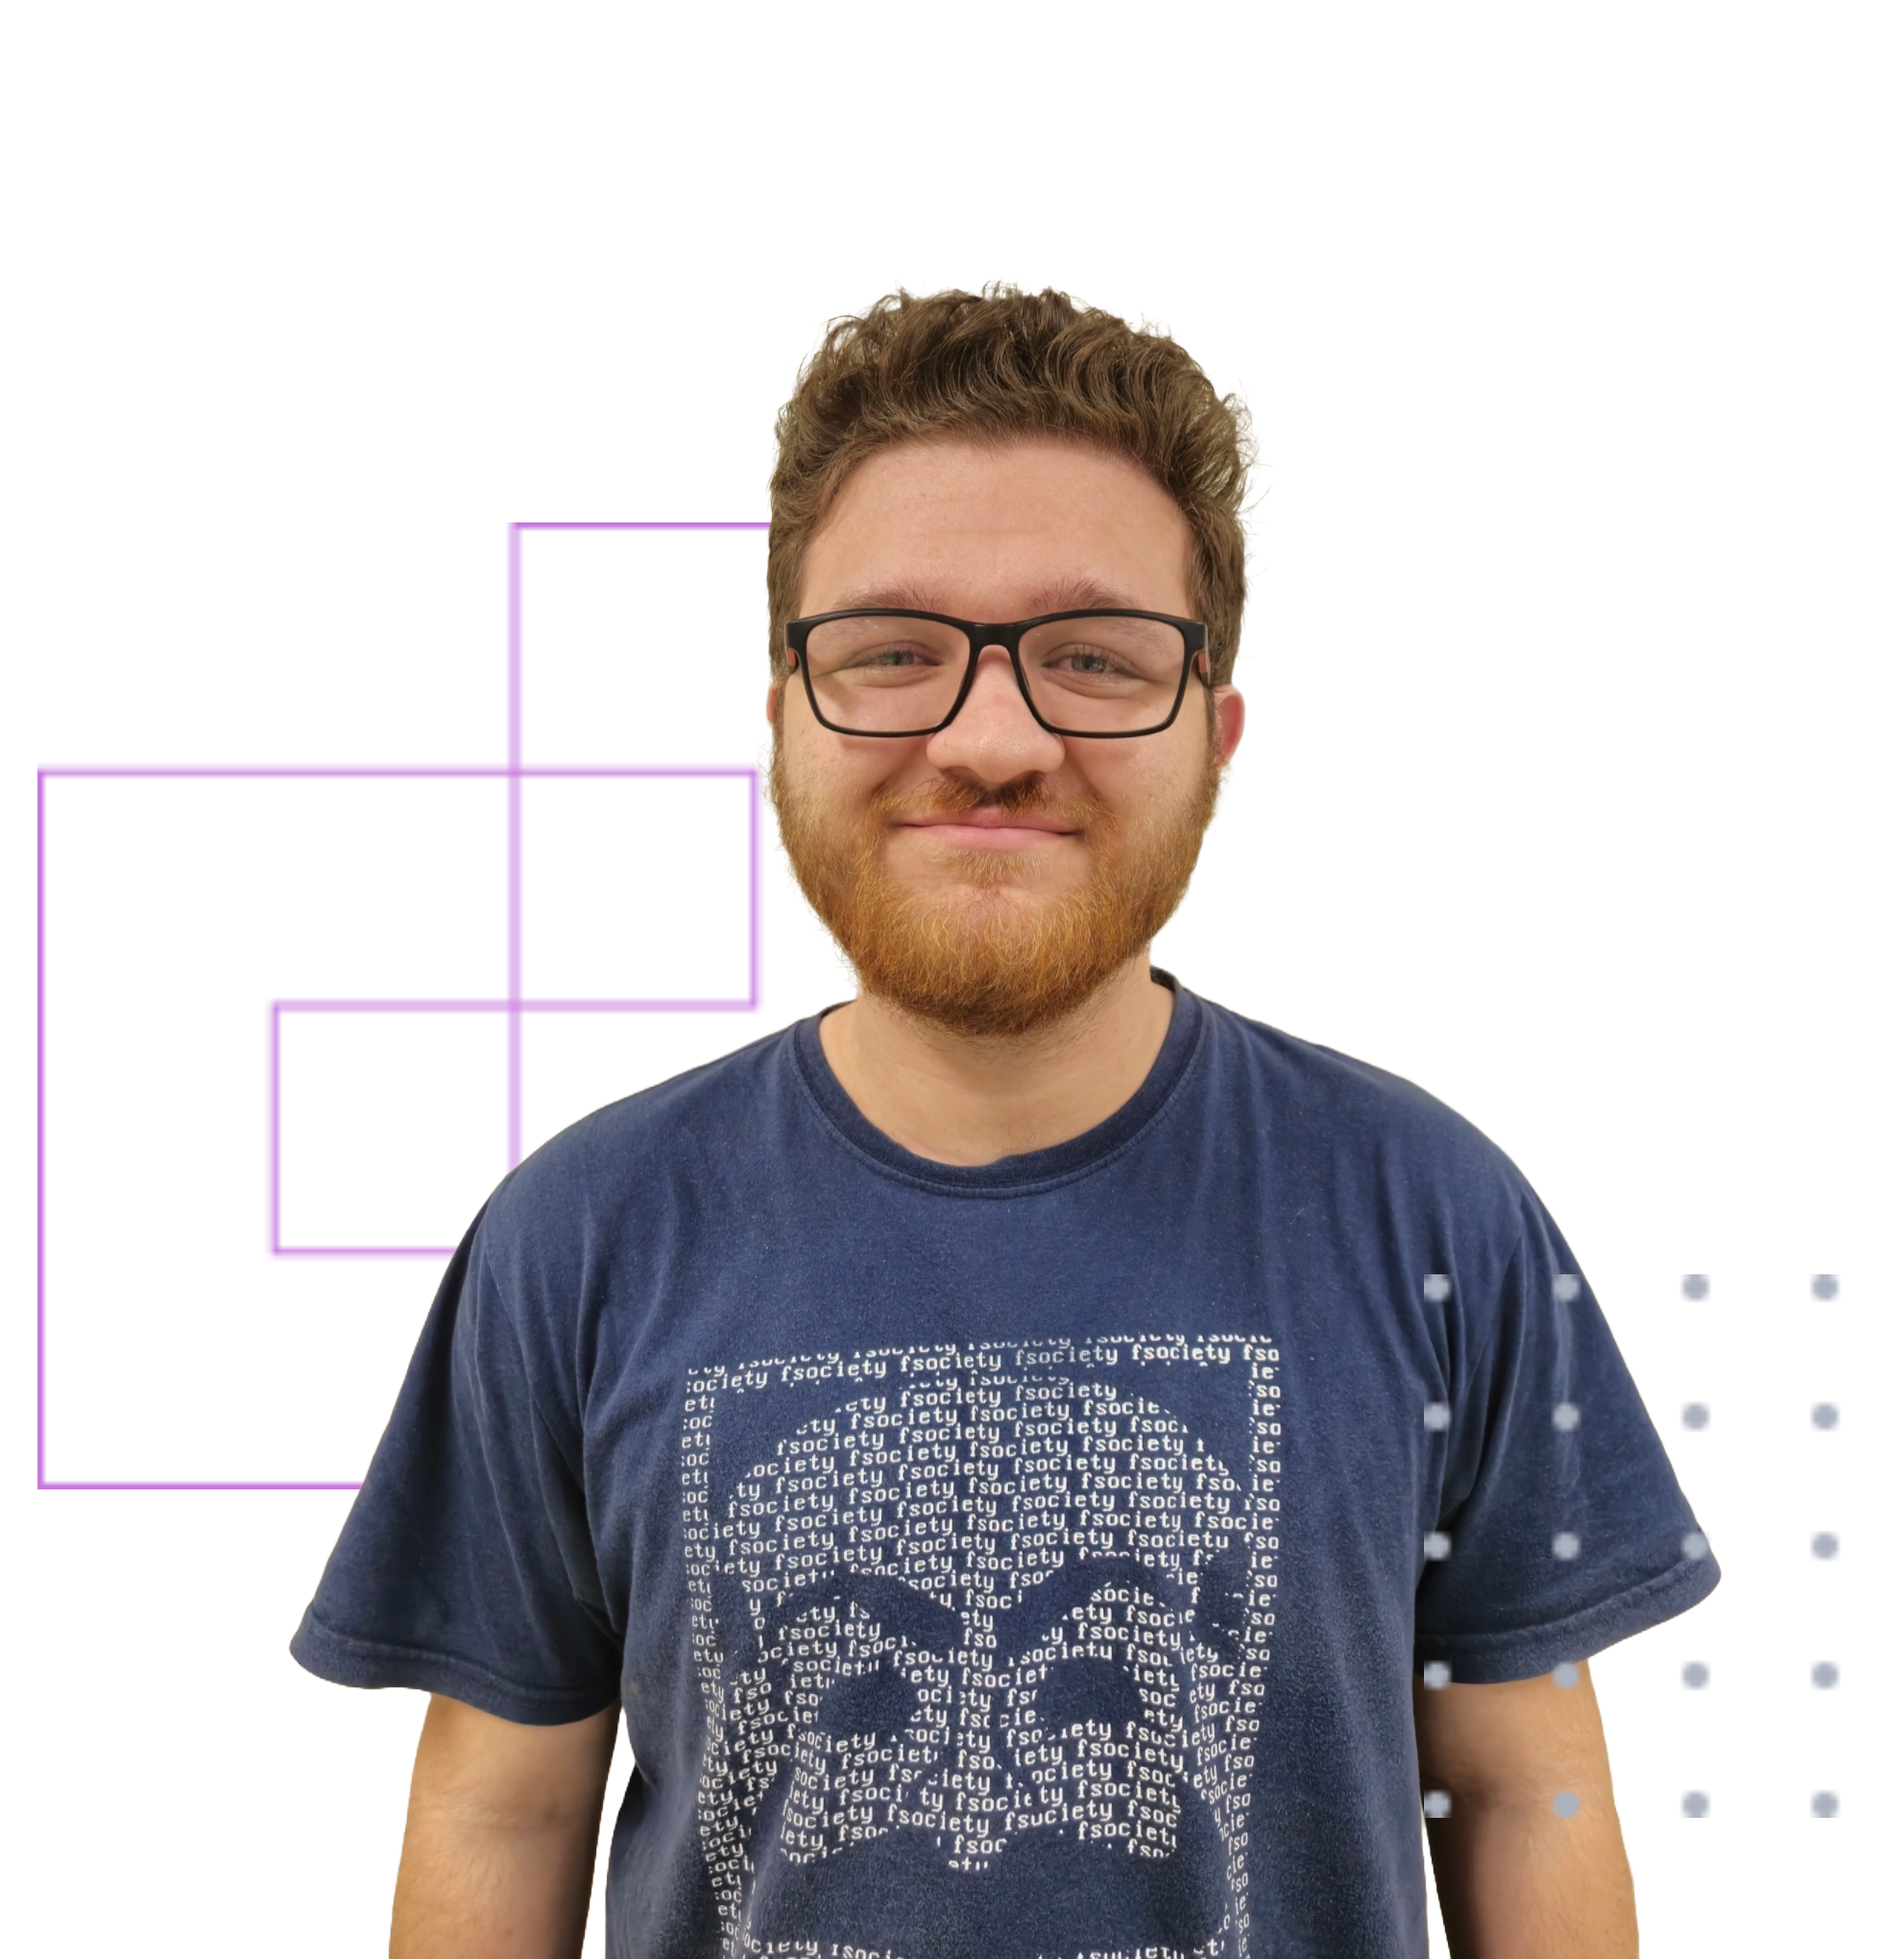
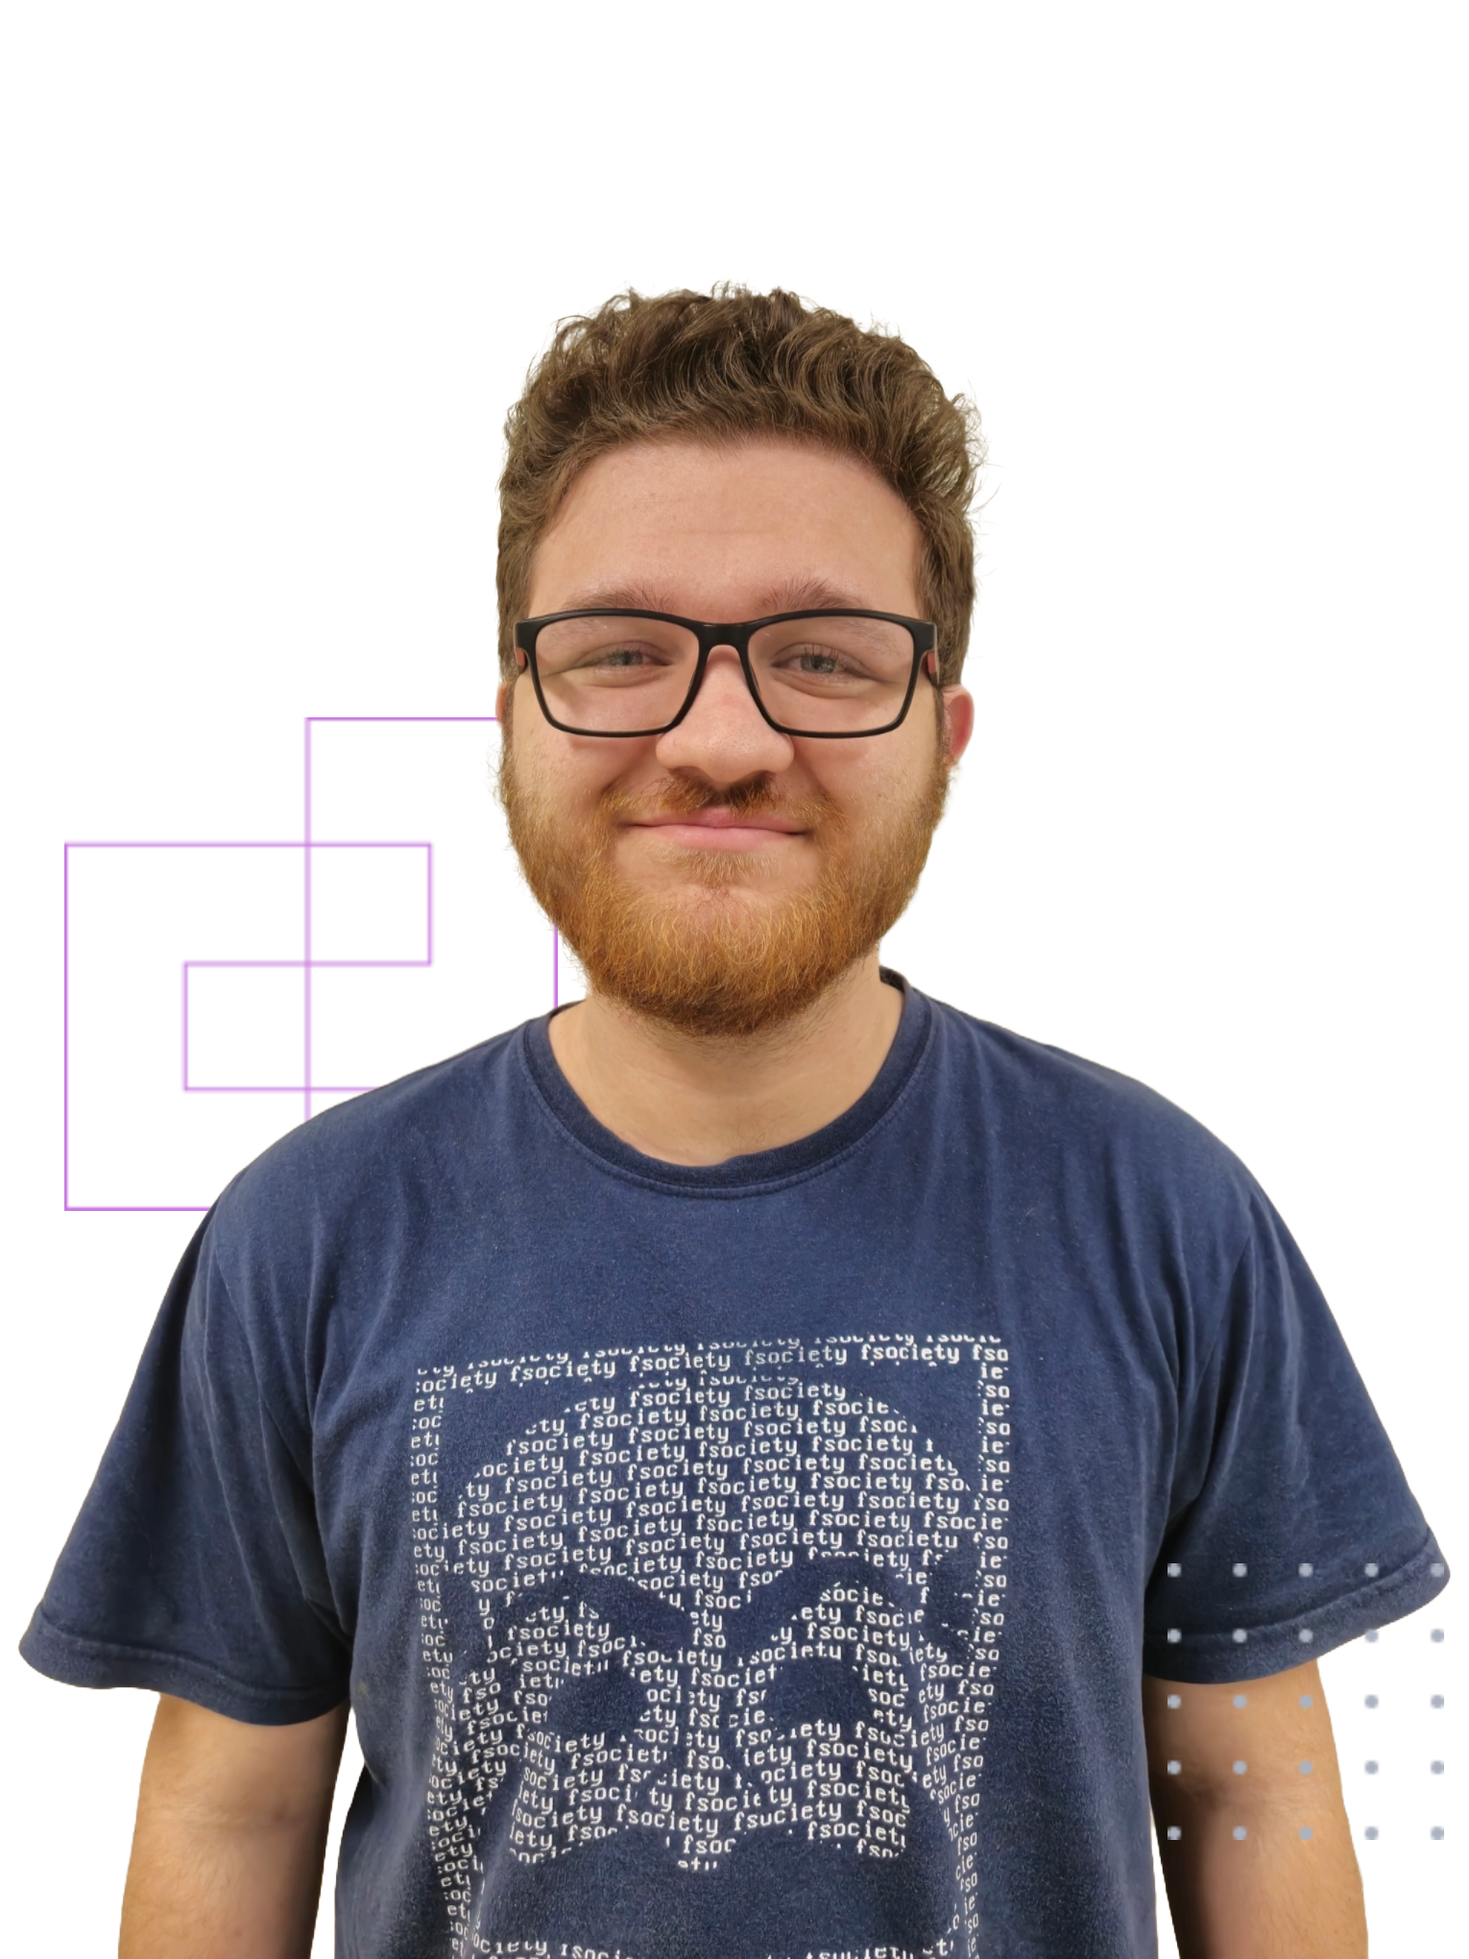
Feat: Trabalhando responsividade

diff --git a/portfolio/src/app/page.tsx b/portfolio/src/app/page.tsx
@@ -14,10 +14,10 @@ export default function Home() {
           <h1 className="text-[3.6rem] max-[999px]:text-[1.5rem]">
             Daniel é um <span className="text-[#C778DD]">Dev Backend</span> com Experiência na área <span className="text-[#C778DD]">DevSecOps</span>
           </h1>
-          <h2 className="text-2xl max-[999px]:text-[1rem]text-[#ABB2BF]">
+          <h2 className="text-2xl max-[999px]:text-[1rem] text-[#ABB2BF]">
             Dedicado, focado em construir APIs escaláveis e soluções seguras.
           </h2>
-          <button className="my-10 p-1 w-50 border-[1px] border-[#C778DD] text-[1.2rem]">
+          <button className="my-10 p-1 w-50 border-[1px] border-[#C778DD] text-[1.2rem] hover:bg-[rgba(199,120,221,0.1)] cursor-pointer">
             Contate-me !
           </button>
         </div>
@@ -26,11 +26,12 @@ export default function Home() {
           <Image 
             src="/daniel.png" 
             alt="Foto daniel"
-            width={400}
+            width={0}
             height={0}
-            className="w-full h-auto"
+            sizes="100vw"
+            className="w-[450px] max-[999px]:w-[300px] h-auto mr-15 max-[999px]:mr-0"
           />
-          <div className="flex items-center justify-center text-[1.2rem] max-[999px]:text-[1rem] text-[#ABB2BF] mx-10 max-[999px]:mx-1 gap-x-2 p-1.5 border-[1px] border-brand-gray">
+          <div className="flex w-130 max-[999px]:w-[100%] items-center justify-center text-[1.2rem] max-[999px]:text-[0.8rem] text-[#ABB2BF] mx-10 gap-x-2 p-[0.2rem] border-[1px] border-brand-gray">
             <div className="relative h-4 w-4">
               <Image
                 src="/Rectangle.png"

diff --git a/portfolio/src/app/layout.tsx b/portfolio/src/app/layout.tsx
@@ -13,8 +13,8 @@ const geistMono = Geist_Mono({
 });
 
 export const metadata: Metadata = {
-  title: "Create Next App",
-  description: "Generated by create next app",
+  title: "Daniel Freitas",
+  description: "Portfolio daniel freitas"
 };
 
 export default function RootLayout({
